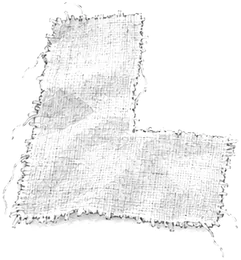
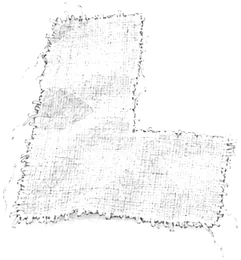
studio: cut out the basket handles and the scrunchie's middle, livelier scraps
- design-assets.py opens enclosed paper holes (basket handles, scrunchie)
- scrap shading lighter, prints larger and a touch more saturated, so the
  fabric in the basket keeps its colour on the paper background
- scraps stand higher over the basket rim

Claude-Session: https://claude.ai/code/session_01EtmDkYfSZ89vTvfpqyGpca

diff --git a/css/studio.css b/css/studio.css
@@ -1113,20 +1113,22 @@ html:has(.studio-page), .studio-page { overscroll-behavior: none; }
    and stick out over the rim */
 .pt-basket { position: relative; padding-top: 18px; overflow-x: clip; }
 .pt-scraps { position: relative; display: flex; justify-content: center; flex-wrap: nowrap; padding-inline: 6%; }
-.pt-ro { position: relative; z-index: 2; display: block; width: 100%; height: auto; margin-top: -7%; pointer-events: none; }
+.pt-ro { position: relative; z-index: 2; display: block; width: 100%; height: auto; margin-top: -3.5%; pointer-events: none; }
 .pt-scrap {
-  position: relative; flex: 1 1 0; min-width: 0; max-width: 92px; aspect-ratio: 1; padding: 0; margin: 0 -1.2%;
+  position: relative; flex: 1 1 0; min-width: 0; max-width: 96px; aspect-ratio: 1; padding: 0; margin: 0 -2.6%;
   border: 0; background: none; cursor: grab;
   transform: translateY(var(--dy, 0)) rotate(var(--r, 0deg)); transition: transform 0.18s ease, filter 0.18s ease;
   filter: drop-shadow(0 2px 2px rgba(61, 74, 46, 0.25)); touch-action: none; -webkit-tap-highlight-color: transparent;
 }
 .pt-sf, .pt-ss { position: absolute; inset: 0; width: 100%; height: 100%; }
 .pt-sf {
-  background-size: 64% auto; background-repeat: repeat;
+  /* big enough that a print reads as a print, not as texture */
+  background-size: 115% auto; background-position: center; background-repeat: repeat;
+  filter: saturate(1.15) contrast(1.06);
   -webkit-mask-size: contain; mask-size: contain; -webkit-mask-repeat: no-repeat; mask-repeat: no-repeat;
   -webkit-mask-position: center; mask-position: center;
 }
-.pt-ss { object-fit: contain; mix-blend-mode: multiply; pointer-events: none; }
+.pt-ss { object-fit: contain; mix-blend-mode: multiply; opacity: 0.85; pointer-events: none; }
 .pt-scrap.is-held {
   transform: translateY(calc(var(--dy, 0) - 22px)) rotate(var(--r, 0deg)) scale(1.12);
   filter: drop-shadow(0 10px 8px rgba(61, 74, 46, 0.35));

diff --git a/studio.html b/studio.html
@@ -13,9 +13,9 @@
   <link rel="preconnect" href="https://fonts.gstatic.com" crossorigin>
   <link href="https://fonts.googleapis.com/css2?family=Be+Vietnam+Pro:wght@300;400;500;600&family=Dancing+Script:wght@400;500;600&family=Nunito:wght@400;500;600;700;800&display=swap" rel="stylesheet">
   <link rel="preload" as="image" href="images/studio/bg/ngoai.webp">
-  <link rel="stylesheet" href="css/style.css?v=20261008b">
-  <link rel="stylesheet" href="css/studio.css?v=20261008b">
-  <script src="js/i18n.js?v=20261008b" defer></script>
+  <link rel="stylesheet" href="css/style.css?v=20261008c">
+  <link rel="stylesheet" href="css/studio.css?v=20261008c">
+  <script src="js/i18n.js?v=20261008c" defer></script>
 </head>
 <body class="studio-page" data-basket data-order-source="studio">
 
@@ -68,14 +68,14 @@
     </div>
   </div>
 
-  <script src="js/gem-db.js?v=20261008b" defer></script>
-  <script src="js/vietqr.js?v=20261008b" defer></script>
+  <script src="js/gem-db.js?v=20261008c" defer></script>
+  <script src="js/vietqr.js?v=20261008c" defer></script>
   <!-- patch.js: thiết kế riêng từ bàn chắp vải (giỏ hàng vẽ lại và ghi vào đơn) -->
-  <script src="js/patch.js?v=20261008b" defer></script>
+  <script src="js/patch.js?v=20261008c" defer></script>
   <!-- collection.js: Tủ sưu tầm, lưu trên máy khách (sau patch.js, trước basket.js) -->
-  <script src="js/collection.js?v=20261008b" defer></script>
-  <script src="js/basket.js?v=20261008b" defer></script>
-  <script src="js/studio-layout.js?v=20261008b" defer></script>
-  <script src="js/studio.js?v=20261008b" defer></script>
+  <script src="js/collection.js?v=20261008c" defer></script>
+  <script src="js/basket.js?v=20261008c" defer></script>
+  <script src="js/studio-layout.js?v=20261008c" defer></script>
+  <script src="js/studio.js?v=20261008c" defer></script>
 </body>
 </html>

diff --git a/tools/design-assets.py b/tools/design-assets.py
@@ -59,10 +59,40 @@ def background(rgb, tol=22):
     return seen
 
 
-def cut(src, tol=22):
+def holes(rgb, bg, tol=16, min_px=300):
+    """Paper showing through a hole (a basket handle, the middle of a
+    scrunchie): near-white blobs the edge flood can't reach, if big enough
+    not to be a highlight."""
+    a = np.asarray(rgb.convert('RGB')).astype(np.int16)
+    near = (a.min(axis=2) > 255 - tol - 8) & ((a.max(axis=2) - a.min(axis=2)) < tol) & ~bg
+    h, w = near.shape
+    seen = np.zeros_like(near)
+    out = bg.copy()
+    for y0 in range(h):
+        for x0 in range(w):
+            if not near[y0, x0] or seen[y0, x0]:
+                continue
+            seen[y0, x0] = True
+            stack, blob = [(y0, x0)], []
+            while stack:
+                y, x = stack.pop()
+                blob.append((y, x))
+                for yy, xx in ((y - 1, x), (y + 1, x), (y, x - 1), (y, x + 1)):
+                    if 0 <= yy < h and 0 <= xx < w and near[yy, xx] and not seen[yy, xx]:
+                        seen[yy, xx] = True
+                        stack.append((yy, xx))
+            if len(blob) >= min_px:
+                ys, xs = zip(*blob)
+                out[list(ys), list(xs)] = True
+    return out
+
+
+def cut(src, tol=22, open_holes=False):
     """RGBA with the paper removed and a soft edge, trimmed."""
     rgb = Image.open(src).convert('RGB')
     bg = background(rgb, tol)
+    if open_holes:
+        bg = holes(rgb, bg)
     alpha = Image.fromarray(np.where(bg, 0, 255).astype(np.uint8)).filter(ImageFilter.GaussianBlur(1.2))
     im = rgb.convert('RGBA')
     im.putalpha(alpha)
@@ -107,12 +137,12 @@ def swatches(src, tone):
             k += 1
 
 
-def shading(im):
+def shading(im, pct=80):
     """Grey multiply layer: the linen's own colour becomes white, shadows stay."""
     rgb = np.asarray(im.convert('RGB')).astype(np.float32)
     alpha = np.asarray(im.getchannel('A')).astype(np.float32)
     lum = rgb @ np.array([0.299, 0.587, 0.114], dtype=np.float32)
-    ref = np.percentile(lum[alpha > 200], 80) if (alpha > 200).any() else 255
+    ref = np.percentile(lum[alpha > 200], pct) if (alpha > 200).any() else 255
     g = np.clip(lum / ref, 0, 1) ** 1.15 * 255
     out = Image.fromarray(g.astype(np.uint8)).convert('RGBA')
     out.putalpha(im.getchannel('A'))
@@ -157,12 +187,12 @@ def scraps(src):
             a = Image.fromarray(np.where(keep, 255, 0).astype(np.uint8)).filter(ImageFilter.GaussianBlur(1))
             cell.putalpha(a)
             cell = cell.crop(cell.getbbox())
-            save(fit(shading(cell), 260), OUT / f'dang-{k}.webp')
+            save(fit(shading(cell, 55), 260), OUT / f'dang-{k}.webp')
             k += 1
 
 
-def piece(src, name, median=0):
-    im = cut(src)
+def piece(src, name, median=0, open_holes=False):
+    im = cut(src, open_holes=open_holes)
     # square canvas, centred: the patches are laid out on the same square
     s = max(im.size)
     sq = Image.new('RGBA', (s, s), (0, 0, 0, 0))
@@ -181,18 +211,20 @@ def piece(src, name, median=0):
 
 def main(folder, only=None):
     src = Path(folder)
-    if only == 'dang':
-        return scraps(src / 'vai-dang.png')
+    if only == 'fix':   # just the pieces touched by a fix
+        scraps(src / 'vai-dang.png')
+        save(fit(cut(src / 'ro-truoc.png', open_holes=True), 1200), OUT / 'ro-truoc.webp')
+        return piece(src / 'mon-scrunchie.png', 'scrunchie', 0, True)
     for t in TONES:
         if (src / f'vai-{t}.png').exists():
             swatches(src / f'vai-{t}.png', t)
     if (src / 'vai-dang.png').exists():
         scraps(src / 'vai-dang.png')
     if (src / 'ro-truoc.png').exists():
-        save(fit(cut(src / 'ro-truoc.png'), 1200), OUT / 'ro-truoc.webp')
-    for name, med in (('goi', 15), ('lotcoc', 0), ('scrunchie', 0)):
+        save(fit(cut(src / 'ro-truoc.png', open_holes=True), 1200), OUT / 'ro-truoc.webp')
+    for name, med, hole in (('goi', 15, False), ('lotcoc', 0, False), ('scrunchie', 0, True)):
         if (src / f'mon-{name}.png').exists():
-            piece(src / f'mon-{name}.png', name, med)
+            piece(src / f'mon-{name}.png', name, med, hole)
     for name in ('ud-may', 'ud-reo', 'kim-chi'):
         if (src / f'{name}.png').exists():
             save(fit(cut(src / f'{name}.png'), 700), ROOT / 'images/studio/udon' / f'{name}.webp')
